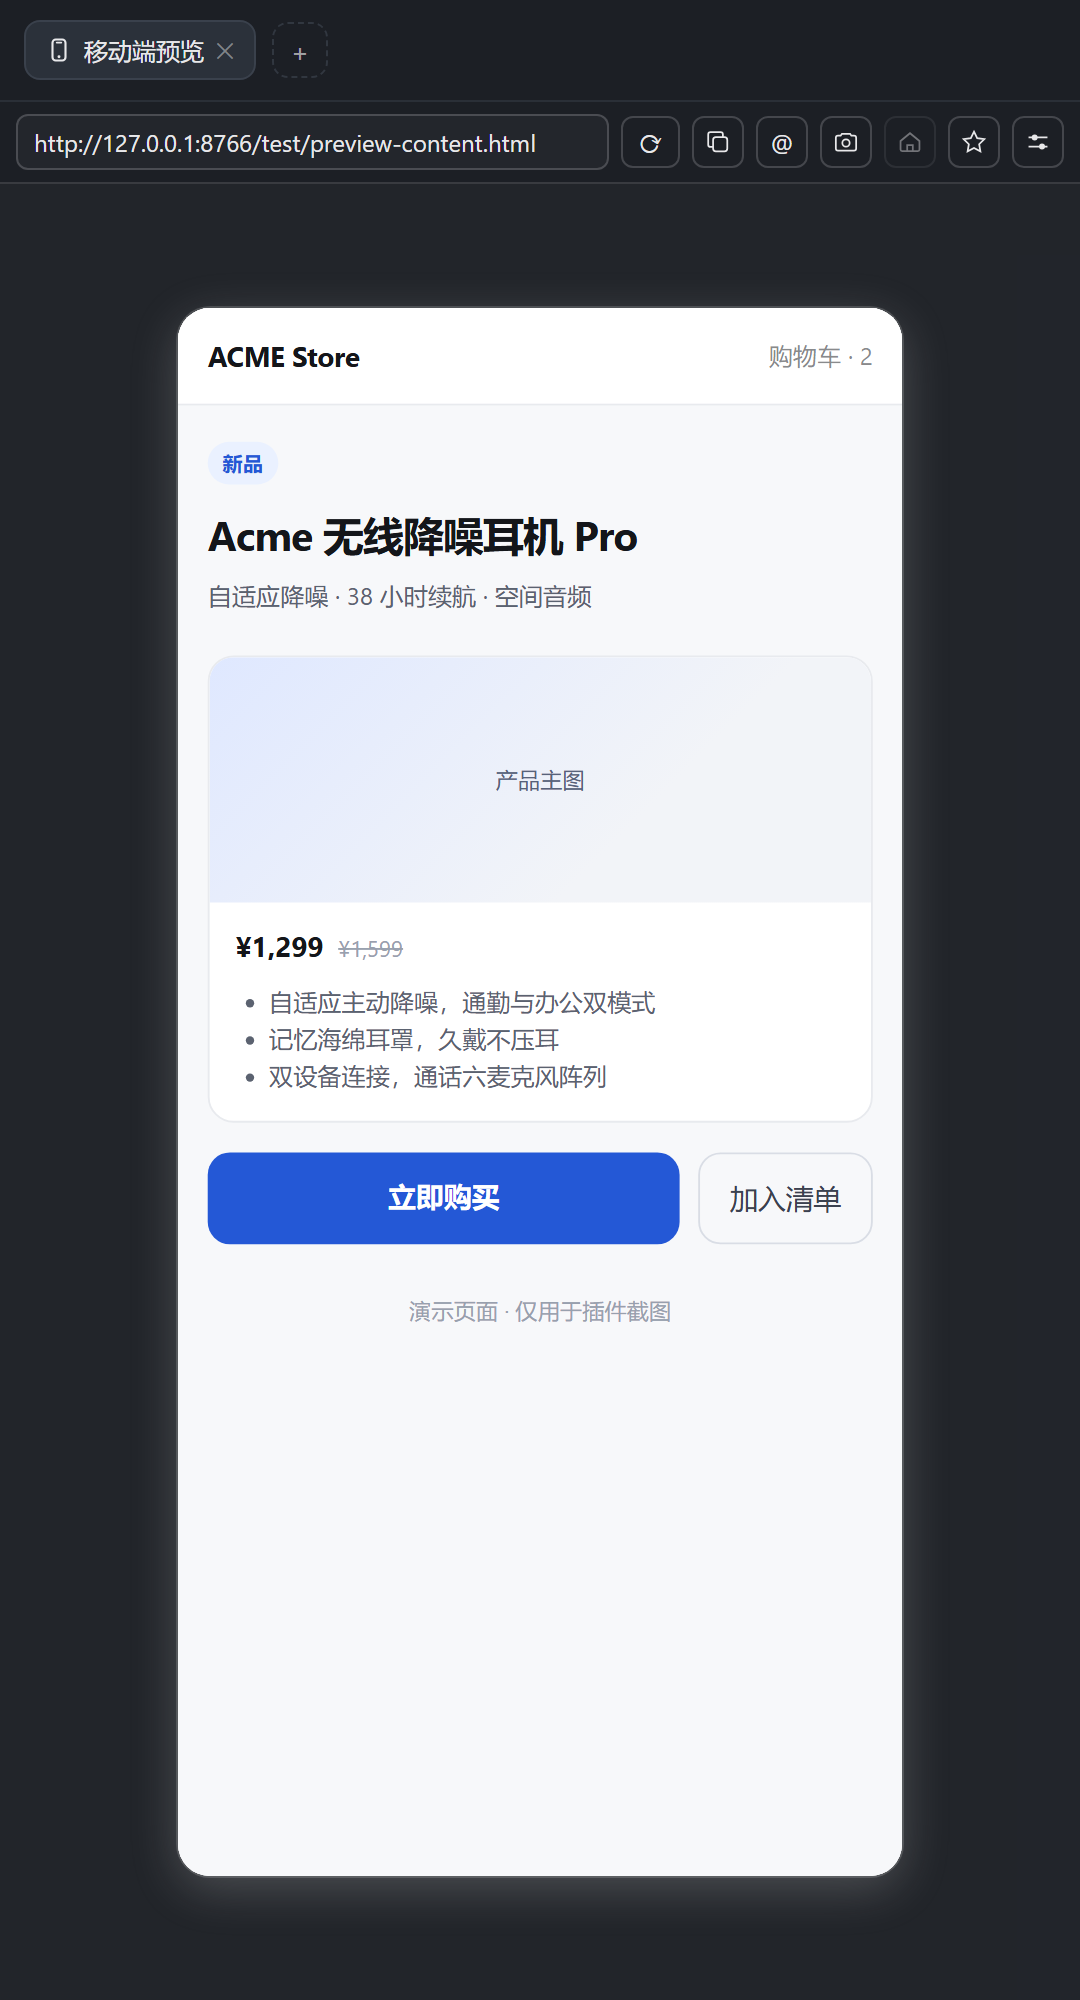
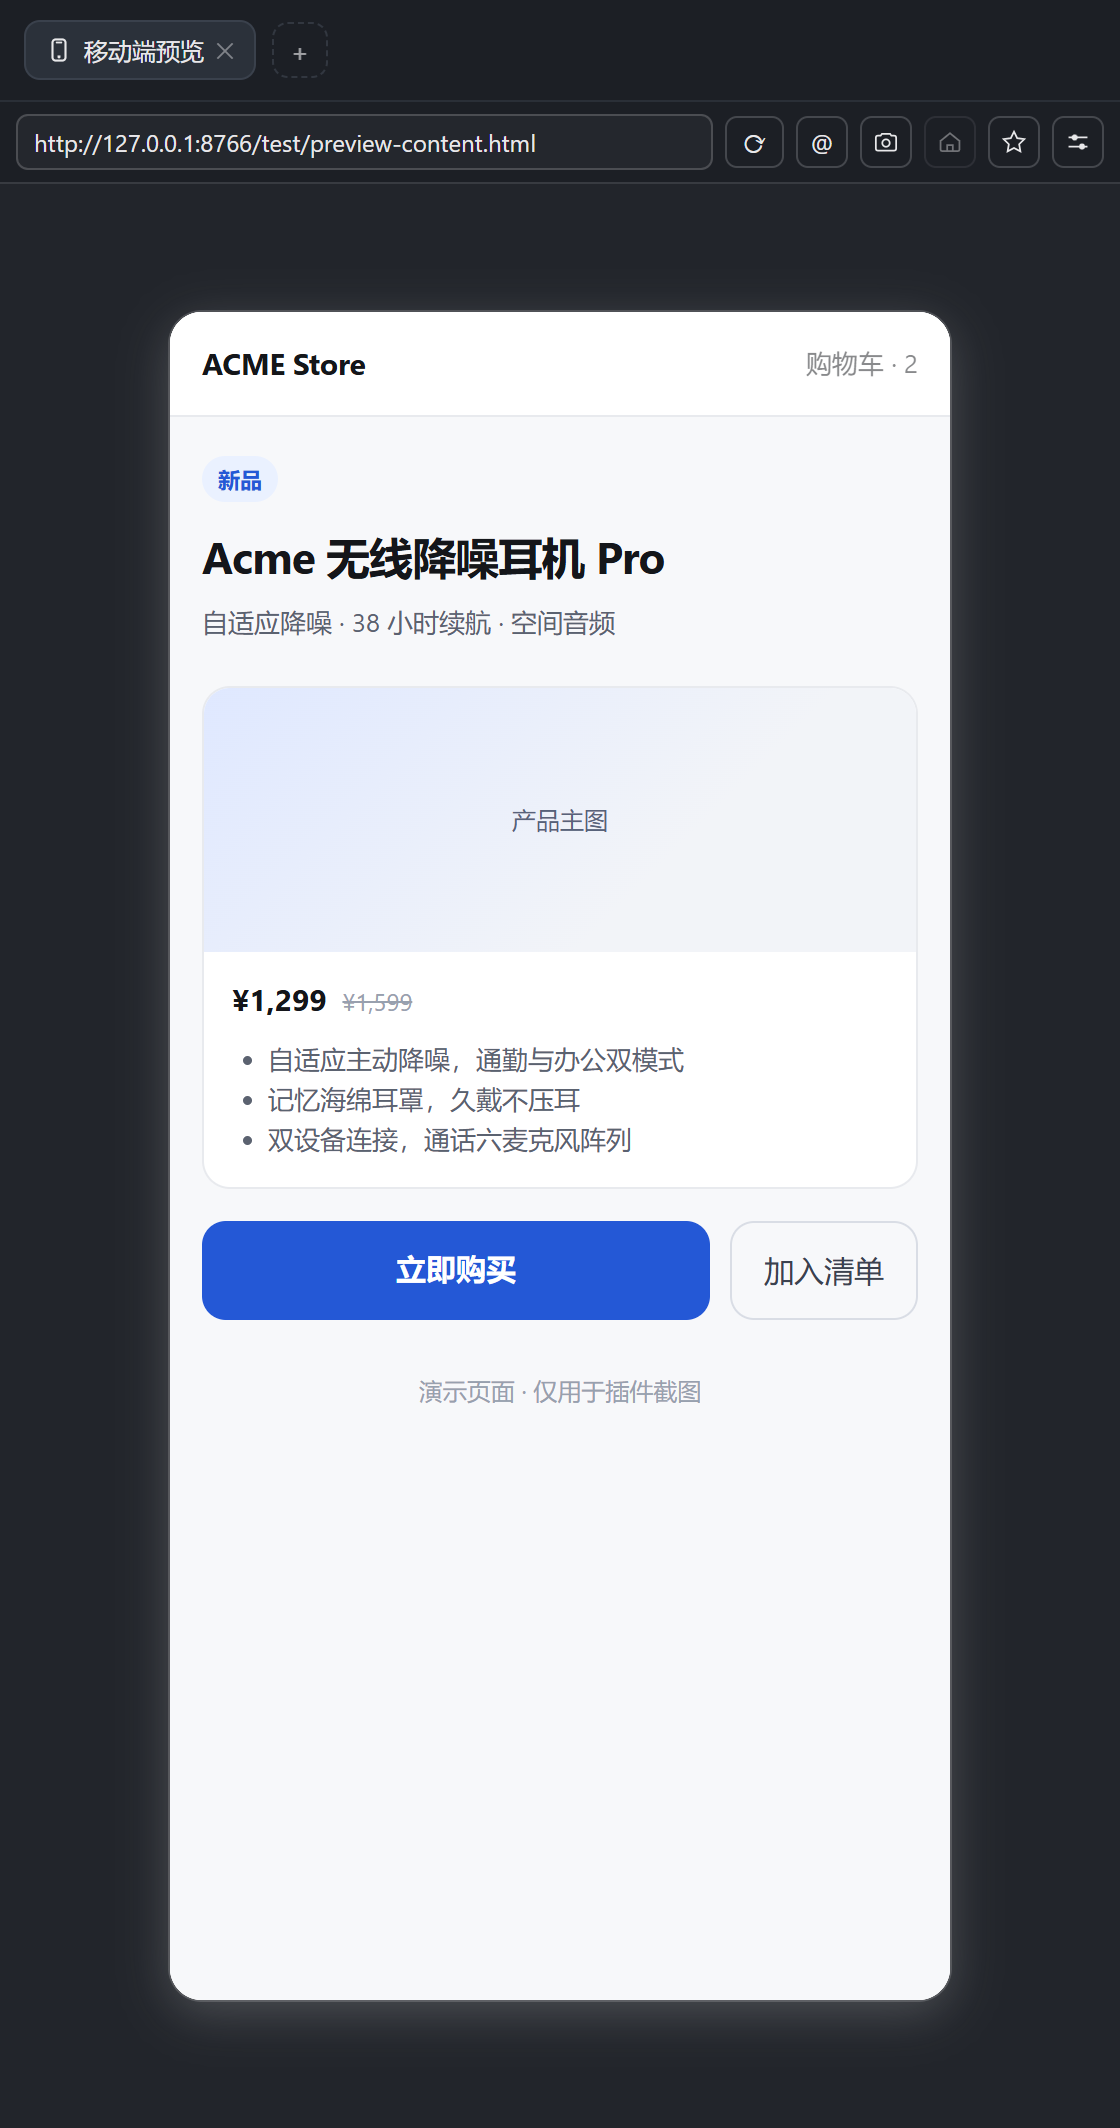
feat: drop the copy-url button (v0.4.4)
The toolbar keeps reload, @, screenshot, house, star and the size toggle; the copy
affordance, its handler, its copied state and its three locale strings are gone.
Screenshots 01/02 are re-shot (one fewer icon), 03-copied is retired and 04-ipad
becomes 03-ipad, so screenshots.json, the README table and generation commands, and
the preview harness copy=1 parameter all follow.

diff --git a/client.js b/client.js
@@ -57,8 +57,6 @@ window.__ModuleLoader__.load({
       'action.reload': '重新加载',
       'frame.pending': '正在创建预览页…',
       'error.frame': '页面加载失败（{code}）',
-      'action.copy': '复制 URL',
-      'action.copied': '已复制',
       'action.rotate': '横竖屏切换',
       'action.size': '尺寸设置',
       'device.label': '尺寸',
@@ -67,7 +65,6 @@ window.__ModuleLoader__.load({
       'empty.body': '页面会以所选设备尺寸渲染，可随时切换机型或改宽高。',
       'error.empty': '请先输入网址。',
       'error.scheme': '只支持 http / https 地址。',
-      'error.clipboard': '复制失败，请手动选择地址栏内容。',
       'mention.current': '当前页面地址',
       'mention.other': '预览页：{host}',
       'action.mention': '插入到对话框',
@@ -95,8 +92,6 @@ window.__ModuleLoader__.load({
       'action.reload': 'Reload',
       'frame.pending': 'Starting the preview…',
       'error.frame': 'Could not load the page ({code})',
-      'action.copy': 'Copy URL',
-      'action.copied': 'Copied',
       'action.rotate': 'Rotate',
       'action.size': 'Size settings',
       'device.label': 'Size',
@@ -105,7 +100,6 @@ window.__ModuleLoader__.load({
       'empty.body': 'The page renders at the selected device size; switch devices or edit the size at any time.',
       'error.empty': 'Enter a URL first.',
       'error.scheme': 'Only http and https addresses are supported.',
-      'error.clipboard': 'Copy failed; select the address bar text instead.',
       'mention.current': 'Current page URL',
       'mention.other': 'Preview: {host}',
       'action.mention': 'Insert into chat',
@@ -460,7 +454,6 @@ window.__ModuleLoader__.load({
           const [dims, setDims] = React.useState({ width: String(size.width), height: String(size.height) });
           const [url, setUrl] = React.useState(initial);
           const [revision, setRevision] = React.useState(0);
-          const [copied, setCopied] = React.useState(false);
           const [inserted, setInserted] = React.useState(false);
           /** '' | 'copied' | 'saved' — what the screenshot button just did. */
           const [shot, setShot] = React.useState('');
@@ -680,12 +673,6 @@ window.__ModuleLoader__.load({
           }, [size.width, size.height]);
 
           React.useEffect(() => {
-            if (!copied) return undefined;
-            const timer = window.setTimeout(() => setCopied(false), 1400);
-            return () => window.clearTimeout(timer);
-          }, [copied]);
-
-          React.useEffect(() => {
             if (!inserted) return undefined;
             const timer = window.setTimeout(() => setInserted(false), 1400);
             return () => window.clearTimeout(timer);
@@ -704,32 +691,6 @@ window.__ModuleLoader__.load({
               return;
             }
             show(result.url);
-          };
-
-          const copyUrl = () => {
-            if (url === '') return;
-            const done = () => setCopied(true);
-            const failed = () => setError(copy('error.clipboard'));
-            if (navigator.clipboard !== undefined && typeof navigator.clipboard.writeText === 'function') {
-              navigator.clipboard.writeText(url).then(done, failed);
-              return;
-            }
-            try {
-              const carrier = document.createElement('textarea');
-              carrier.value = url;
-              carrier.setAttribute('readonly', 'readonly');
-              carrier.style.position = 'fixed';
-              carrier.style.opacity = '0';
-              document.body.appendChild(carrier);
-              carrier.select();
-              const ok = document.execCommand('copy');
-              carrier.remove();
-              if (ok) done();
-              else failed();
-            } catch (failure) {
-              void failure;
-              failed();
-            }
           };
 
           /** Show one already-validated address without re-reading the draft. */
@@ -949,25 +910,6 @@ window.__ModuleLoader__.load({
                 disabled: url === '',
                 onClick: reloadPage,
               }, '⟳'),
-              h('button', {
-                type: 'button',
-                className: 'dmb-btn dmb-btn-icon',
-                title: copied ? copy('action.copied') : copy('action.copy'),
-                disabled: url === '',
-                onClick: copyUrl,
-              }, copied
-                ? h('svg', {
-                    width: 14, height: 14, viewBox: '0 0 16 16', fill: 'none',
-                    stroke: 'currentColor', strokeWidth: 1.5, strokeLinecap: 'round',
-                    strokeLinejoin: 'round', 'aria-hidden': true,
-                  }, h('path', { d: 'M3.4 8.4l3.1 3.1 6.1-6.3' }))
-                : h('svg', {
-                    width: 14, height: 14, viewBox: '0 0 16 16', fill: 'none',
-                    stroke: 'currentColor', strokeWidth: 1.3, strokeLinecap: 'round',
-                    strokeLinejoin: 'round', 'aria-hidden': true,
-                  },
-                  h('rect', { x: 5.2, y: 5.2, width: 8.1, height: 8.1, rx: 1.6 }),
-                  h('path', { d: 'M10.8 5.2V3.7c0-.7-.6-1.3-1.3-1.3H3.7c-.7 0-1.3.6-1.3 1.3v5.8c0 .7.6 1.3 1.3 1.3h1.5' }))),
               h('button', {
                 type: 'button',
                 className: 'dmb-btn dmb-btn-icon',

diff --git a/test/preview.html b/test/preview.html
@@ -44,7 +44,6 @@
  *   url     page to preview (must be http/https)
  *   size    preset id to remember before mounting (e.g. ipad-mini)
  *   open    "1" opens the size row after mounting
- *   copy    "1" clicks the copy button so the checkmark state is captured
  */
 (function () {
   const state = [];
@@ -230,7 +229,6 @@
 
     await wait(120);
     if (params.get('open') === '1') { clickByTitle('尺寸设置'); await wait(80); }
-    if (params.get('copy') === '1') { window.__freeze = true; clickByTitle('复制 URL'); await wait(80); }
     window.__harnessReady = true;
   });
 })();

diff --git a/README.md b/README.md
@@ -1,10 +1,10 @@
 # dsh-sidebar-mobile-browser
 
 给 **DeepSeek Harness（DSH）** 右侧边栏加一个「移动端预览」标签页：按手机 / 平板尺寸打开网页，
-在对话框里用 `@` 或 `/url` 引用当前页面地址，一键复制 URL。
+在对话框里用 `@` 或 `/url` 引用当前页面地址。
 
 A mobile-device preview browser for the DSH right sidebar — device-sized frames, `@`-mention or `/url`
-insertion of the current page URL from the composer, one-click copy.
+insertion of the current page URL from the composer.
 
 - 标签页类型：**移动端预览**（与内置 Browser 并列，不替换它）
 - 设备尺寸：9 个常见预设 + 自定义宽高（180–2560），最近一次尺寸会记住
@@ -18,7 +18,7 @@ insertion of the current page URL from the composer, one-click copy.
 - 工具栏 `⭐` 按钮：把当前页设为**默认主页**（`localStorage`），之后新开的空白标签页自动打开它；再点一次取消
 - 工具栏房屋按钮：**回到默认主页** —— 跨域页面里的站内跳转读不回地址栏，这是"走远了再回去"的可靠路径
 - 工具栏相机按钮：**截图当前页** —— 抓的是设备框里的真实像素（复制到剪贴板，失败则下载 PNG）
-- 工具栏：回车即打开、`⟳` 重载、复制图标（成功后短暂变对勾）、滑块图标切换尺寸栏
+- 工具栏：回车即打开、`⟳` 重载、滑块图标切换尺寸栏
 - 多标签页；切换标签不重载页面（`keepMounted`）；重启 DSH 后能恢复上次打开的页面
 
 ## 安装
@@ -36,7 +36,7 @@ insertion of the current page URL from the composer, one-click copy.
 2. 地址栏输入 `example.com` 或完整 URL，**回车**打开（无单独“打开”按钮）。
 3. 点工具栏最右的**滑块图标**展开尺寸栏：选预设，或选「自定义」直接改宽高数字（回车 / 失焦生效）；
    再点一次收起。默认收起，所以每次新开标签页都从「只有地址栏」的紧凑状态开始。
-4. 工具栏：`⟳` 重载、复制图标复制当前 URL、`@` 把当前 URL 插入对话框、相机图标截图、
+4. 工具栏：`⟳` 重载、`@` 把当前 URL 插入对话框、相机图标截图、
    房屋图标回到默认主页、`⭐` 设为默认主页、滑块图标切换尺寸栏；尺寸栏展开时右侧还有 `⟲` 横竖屏互换。
    桌面端（页面跑在 guest webview 上）时**地址栏随页面跳转实时更新**。
 5. 点 `⭐` 之后，新开的空白标签页会直接打开这个默认主页；空状态里也有「打开默认主页」按钮。
@@ -56,9 +56,9 @@ insertion of the current page URL from the composer, one-click copy.
 | --- | --- |
 | ![默认状态](assets/screenshots/01-default.png) | ![尺寸栏展开](assets/screenshots/02-size.png) |
 
-| 复制成功（图标短暂变对勾） | 换成 iPad mini（768 × 1024） |
-| --- | --- |
-| ![复制成功](assets/screenshots/03-copied.png) | ![iPad mini](assets/screenshots/04-ipad.png) |
+| 换成 iPad mini（768 × 1024） |
+| --- |
+| ![iPad mini](assets/screenshots/03-ipad.png) |
 
 截图不是手绘原型：`test/preview.html` 载入**真实的 `client.js`** 在仿侧边栏的外壳里渲染，
 再由无头 Chrome 截图（生成方法见「开发」）。同一份清单也放在仓库根的 `screenshots.json`，供插件市场读取。
@@ -133,14 +133,11 @@ PAGE="http%3A%2F%2F127.0.0.1%3A8766%2Ftest%2Fpreview-content.html"
   --virtual-time-budget=9000 --screenshot=assets/screenshots/01-default.png "$BASE?url=$PAGE"
 "$CHROME" --headless=new --hide-scrollbars --force-device-scale-factor=2 --window-size=560,1104 \
   --virtual-time-budget=9000 --screenshot=assets/screenshots/02-size.png "$BASE?open=1&url=$PAGE"
-"$CHROME" --headless=new --hide-scrollbars --force-device-scale-factor=2 --window-size=560,1064 \
-  --virtual-time-budget=9000 --screenshot=assets/screenshots/03-copied.png "$BASE?copy=1&url=$PAGE"
 "$CHROME" --headless=new --hide-scrollbars --force-device-scale-factor=2 --window-size=560,1000 \
-  --virtual-time-budget=9000 --screenshot=assets/screenshots/04-ipad.png "$BASE?size=ipad-mini&open=1&url=$PAGE"
+  --virtual-time-budget=9000 --screenshot=assets/screenshots/03-ipad.png "$BASE?size=ipad-mini&open=1&url=$PAGE"
 ```
 
-URL 参数：`url` 要预览的页面、`size` 挂载前写进 `localStorage` 的预设 id、`open=1` 展开尺寸栏、
-`copy=1` 点一次复制并冻结提示定时器（为了让「已复制」的对勾停在画面里）。
+URL 参数：`url` 要预览的页面、`size` 挂载前写进 `localStorage` 的预设 id、`open=1` 展开尺寸栏。
 
 ## 发布
 

diff --git a/CHANGELOG.md b/CHANGELOG.md
@@ -1,5 +1,19 @@
 # Changelog
 
+## v0.4.4 — 2026-10-24
+
+**变更**
+
+- 去掉工具栏的「复制 URL」按钮（连带它的处理函数、`copied` 状态与三条文案）。
+  工具栏现在是「重载 · `@` · 截图 · 房屋 · `⭐` · 尺寸」。
+- 文档与截图同步：`01-default` / `02-size` 重拍（工具栏少了一个图标），`03-copied` 删除、
+  `04-ipad` 改为 `03-ipad`；`screenshots.json`、README 的截图表与生成命令、`test/preview.html`
+  的 `copy=1` 参数一并清掉。
+
+**测试**
+
+- `npm test` 新增断言：工具栏没有复制按钮。
+
 ## v0.4.3 — 2026-10-24
 
 **变更**
